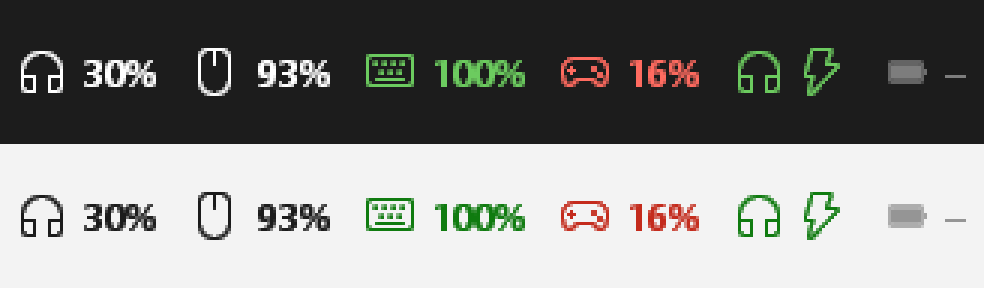
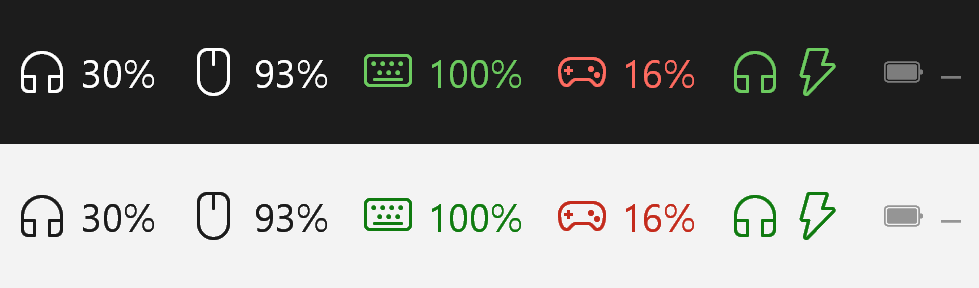
Render the README picture at triple scale instead of zooming

diff --git a/examples/widget_preview.rs b/examples/widget_preview.rs
@@ -4,7 +4,10 @@
 use trayjuice::device::{BatteryState, DeviceKind, DeviceStatus};
 use trayjuice::taskbar::render;
 
-const ZOOM: usize = 3;
+/// The widget is drawn at this multiple of 100% scaling, so the picture is
+/// large and still sharp.
+const SCALE: i32 = 3;
+const ZOOM: usize = 1;
 
 fn main() {
     let device = |kind, state| DeviceStatus {
@@ -25,7 +28,7 @@ fn main() {
     let themes = [(false, [0x1cu32, 0x1c, 0x1c]), (true, [0xf3, 0xf3, 0xf3])];
     let bitmaps: Vec<_> = themes
         .iter()
-        .map(|t| render(&statuses, 48, 96, t.0))
+        .map(|t| render(&statuses, 48 * SCALE, 96 * SCALE as u32, t.0))
         .collect();
     let (bw, bh) = (bitmaps[0].width as usize, bitmaps[0].height as usize);
     let (w, h) = (bw * ZOOM, bh * ZOOM * themes.len());
